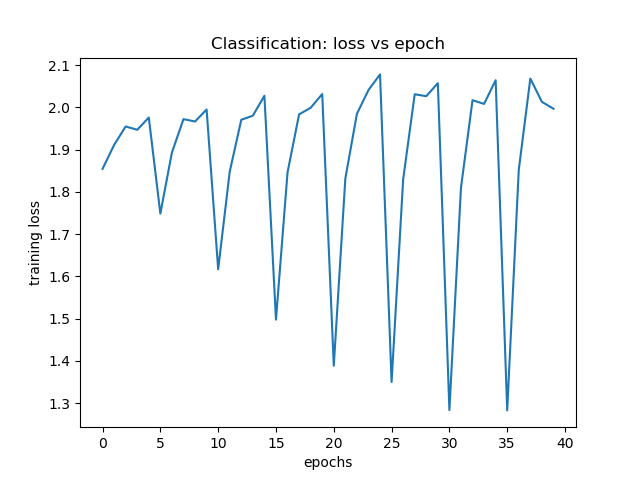
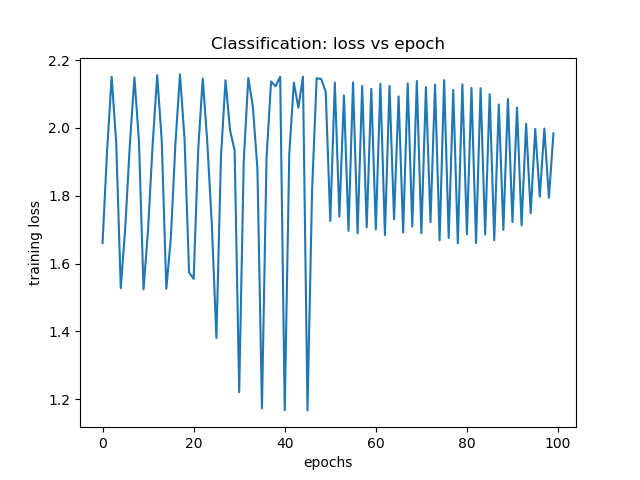
documentation completed version(2.2.0)

diff --git a/main.py b/main.py
@@ -39,7 +39,7 @@ opt = optim.SGD(model.parameters(), lr = lr)
 #classification module
 classify = classification(final_out_features, len(classes))
 loss_cl = nn.CrossEntropyLoss()
-opt_cl = optim.Adam(classify.parameters(), lr = lr)
+opt_cl = optim.SGD(classify.parameters(), lr = lr, momentum = 0.9)
 
 if train:
 

diff --git a/README.md b/README.md
@@ -62,6 +62,40 @@ Google's facenet implementation in pytorch for face identification
                             --bs      : batch size for training
                             --epochs  : number of epochs for training
                             --train   : 1 for training/ 0 for evaluation
-6. main.py             : main file                         
+6. main.py             : main file  
+
+------------------------------------------------------------------------------------------
+# Commands
+
+## fine tuning inception_resnet 
+### without checkout (when the model is being fine tuned the first time)
+$ python main.py --lr 0.05 --bs 8 --train 1 --check 0 --ep 100 --train-module inception --rootdir datasets/custom_images
+
+### with checkpoint
+$ python main.py --lr 0.05 --bs 8 --train 1 --check 1 --ep 100 --train-module inception --rootdir datasets/custom_images
+
+## training classification module
+### training the first time
+$ python main.py --lr 0.001 --bs 16 --train 1 --check 0 --ep 50 --train-module classification --rootdir datasets/custom_images
+
+### training with checkpoint
+$ python main.py --lr 0.001 --bs 16 --train 1 --check 0 --ep 50 --train-module classification --rootdir datasets/custom_images
+
+## evaluation
+$ python main.py --train 0
+
+---------------------------------------------------------
+# References
+
+1. github's repo: akshaybahadur21/Facial-Recognition-using-Facenet
+
+2. Google's Facenet paper
+
+The inception resnet module is loaded using either 'casia-webface2' pretrained model or 'vggface2' pretrained inception resnet model, which can be selected at the time of initialising the model using the attribute "pretrained". 
+
+## Note: 
+The project is build for learning purposes and the custom images has been taken with due permission of my friends for a demo use case only. For all other practical purposes, this dataset must be avoided and instead other custom images must be used.
+
+"I thank my fellow colleagues for allowing me to use their images for demo purposes"
       
 
